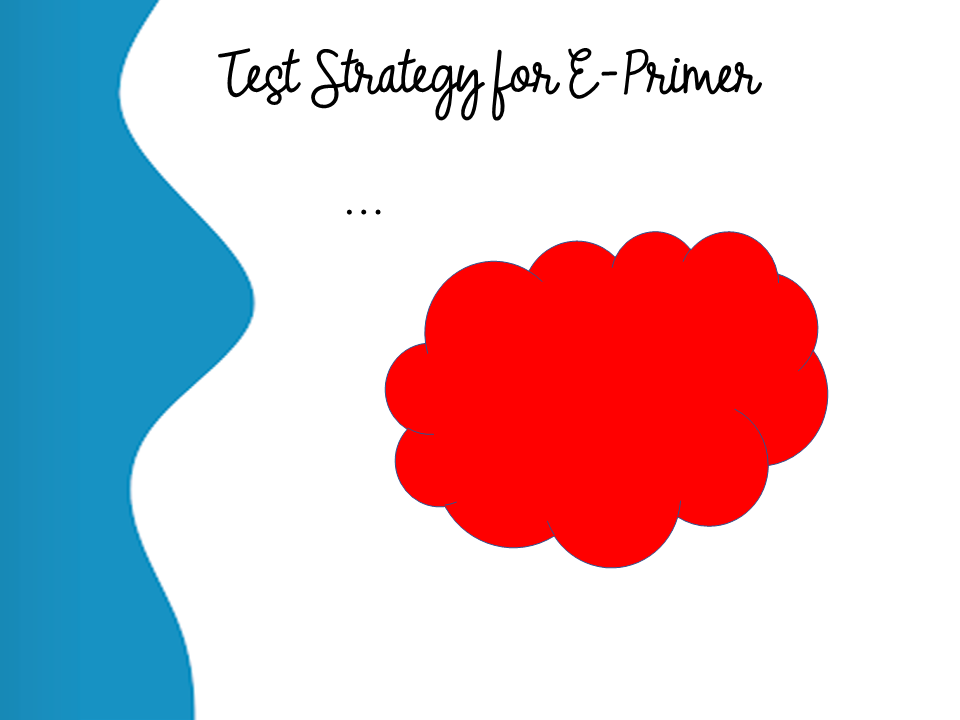
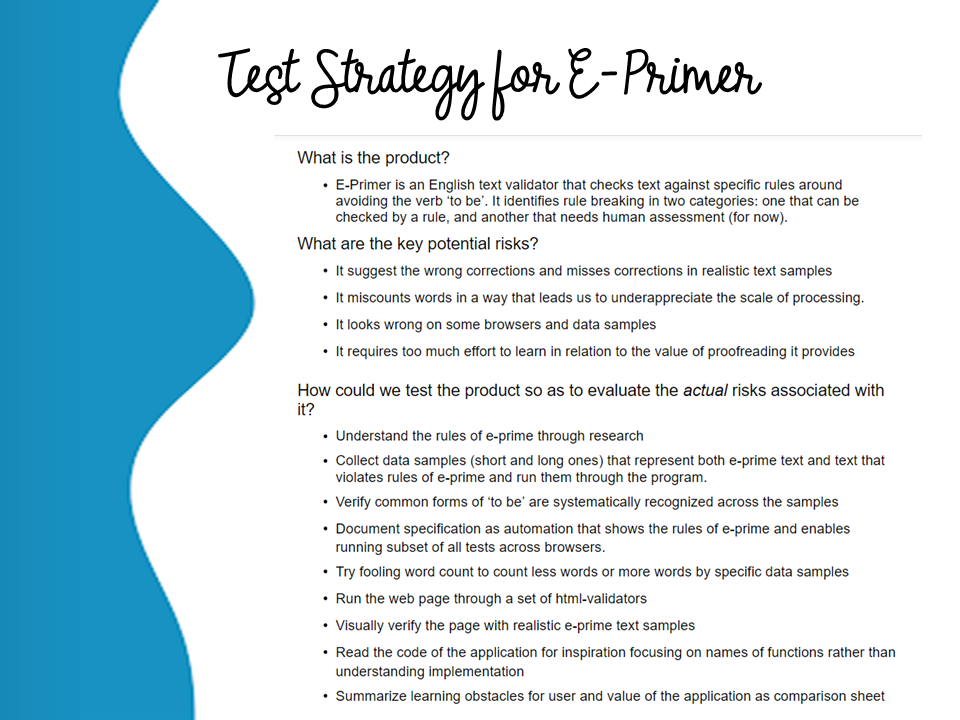
Adding the test strategy example and explanation text

Changed region(s): [[0.3125, 0.2139, 0.9375, 0.9778]]

diff --git a/manuscript/0000_Exploratory_Testing_Foundations.md b/manuscript/0000_Exploratory_Testing_Foundations.md
@@ -766,6 +766,46 @@ Creating good, reliable programmed tests is inherently an exploratory testing ac
 
 ![Course Notes to Exploratory Testing Foundations](images/ETF/slide79.png)
 
+After all the testing we had done on the application, we paired on documenting the strategy including all the learning that we had. 
+
+We decided to describe it three sections. 
+
+1. What is the product
+2. What are the key potential risks
+3. How could we test the product so as to evaluate the *actual risks* associated with it
+
+We concluded that E-Primer is an English text validator that checks text against specific rules around avoiding the verb 'to be'. It identified rule breaking with two categories: one that can be checked by a rule and and another that needs human assessment (for now). 
+
+It's key potential risks are: 
+
+    * It suggests wrong corrections and misses corrections in real samples
+
+    * It miscounts words in a way that leads us to underappreciate the scale of processing
+
+    * It looks wrong on some browsers and data samples
+
+    * It requires too much effort to learn in relation to the value of proofreading it provides
+
+To evaluate the actual risks we would propose the following activities:
+
+   * Understand rules of e-prime through research
+
+   * Collect data samples (short and long ones) that represent both e-prime text and text that violates the rules of e-prime and run them through the program
+
+   * Document specification as automation that shows the rules of e-prime and and enables running a subset of tests across browsers
+
+   * Try fooling word count to count less words or more words by specific data samples
+
+   * Run the web page through a set of html validators (incl. accessibility)
+
+   * Visually verify the page with realistic e-prime text samples
+
+   * Read the code of the application for inspiration focusing on names of functions rather than understanding implementation
+
+   * Summarize learning obstacles for user and value of the application as comparison sheet 
+
+This example is just that - example. It is not the only possible outcome. Your outcome can differ, perhaps even should differ and comparing two outcomes is done on usefulness, not exact match. Would following these ideas driving your testing get you to a place where you do good testing that you can be happy with? 
+
 ![Course Notes to Exploratory Testing Foundations](images/ETF/slide80.png)
 
 ![Course Notes to Exploratory Testing Foundations](images/ETF/slide81.png)
